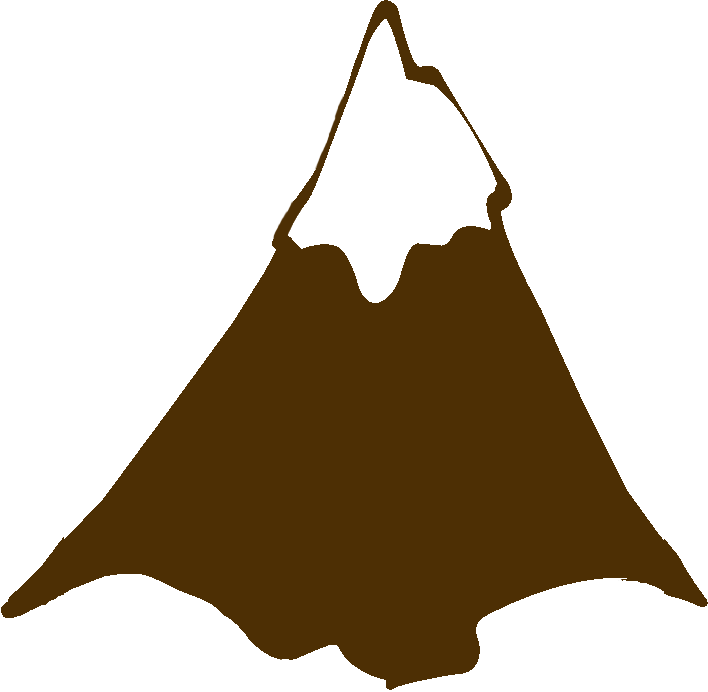
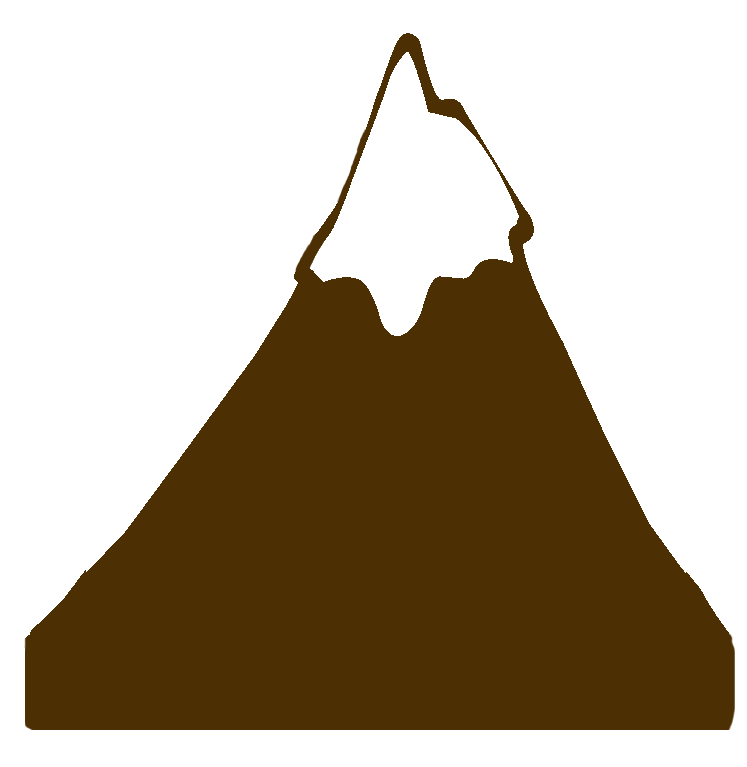
updating gradient

diff --git a/angular-src/src/app/dashboard-page/dashboard.component.html b/angular-src/src/app/dashboard-page/dashboard.component.html
@@ -153,15 +153,15 @@
   <svg class="scaling-svg" xmlns="http://www.w3.org/2000/svg" xmlns:xlink="http://www.w3.org/1999/xlink" viewBox="0 0 708 692">
   <title>Dashboard</title>
   <g id="Layer_1-2">
-    <image class="test-svg" width="708" height="692" xlink:href="../../assets/images/v2mountain1.png"/>
+    <image class="test-svg" width="700" height="760" xlink:href="../../assets/images/v2mountain1.png"/>
   </g>
-  <g id="Layer_2" transform="translate(267 18.5)" >
-    <image class="test-svg" width="238" height="285"xlink:href="../../assets/images/v2mountain2.png"/>
+  <g id="Layer_2" transform="translate(275 62)" >
+    <image class="test-svg" width="215" height="285"xlink:href="../../assets/images/v2mountain2.png"/>
   </g>
-  <g id="Layer_3" transform="translate(200 150)">
-    <image class="test-svg" width="519" height="585" xlink:href="../../assets/images/v2mountain3.png"/>
+  <g id="Layer_3" transform="translate(190 195)">
+    <image class="test-svg" width="500" height="555" xlink:href="../../assets/images/v2mountain3.png"/>
   </g>
-  <g id="menu" transform="translate(10, 10) scale(0.3)" (click)="openModalMenu()"> <title>Menu</title>
+  <g id="menu" transform="translate(20, 10) scale(0.3)" (click)="openModalMenu()"> <title>Menu</title>
     <path style="fill:#7f4b17" d="M536,203.2c0.4-1.8,1.3-10.6,0.5-12c-1.9-3.5-6.2-4.6-11.3-5c0.1-6.3-1-12.4,0.2-18.2v-3.6
           c0.4-1.7,1-8.1,0.2-9.6s-4.1-4.2-6.5-5s-2.3-0.2-3.1-0.7s-0.3-3.6-0.2-5.3c2.2-0.1,5.1-0.5,7-0.7c-0.3,0.2-0.4,0.2-1,0.2v0.2
           c2.3-0.1,6.4-4,7-5.8v-8c-1.5-7.2-2.1-12.6-8.2-15.1l-2.6-12.2c-0.4-1.6,0-3.6-0.7-4.8v-2.4l2.6-1.2c2.2-1.6,5-2.9,7.2-4.6h0.2
@@ -257,7 +257,7 @@
            M27,222.6v-0.2h-0.5L27,222.6z"/>
     <text font-family="TimesNewRoman" font-size="130" fill="white" transform="translate(25, 150)">Section 3</text>
   </g>
-  <g id="section4" transform="translate(280, 300) scale(0.2)" (click)="openModalFour()"> <title>Section 4</title>
+  <g id="section4" transform="translate(290, 330) scale(0.2)" (click)="openModalFour()"> <title>Section 4</title>
     <path style="fill:#7f4b17" d="M536,203.2c0.4-1.8,1.3-10.6,0.5-12c-1.9-3.5-6.2-4.6-11.3-5c0.1-6.3-1-12.4,0.2-18.2v-3.6
           c0.4-1.7,1-8.1,0.2-9.6s-4.1-4.2-6.5-5s-2.3-0.2-3.1-0.7s-0.3-3.6-0.2-5.3c2.2-0.1,5.1-0.5,7-0.7c-0.3,0.2-0.4,0.2-1,0.2v0.2
           c2.3-0.1,6.4-4,7-5.8v-8c-1.5-7.2-2.1-12.6-8.2-15.1l-2.6-12.2c-0.4-1.6,0-3.6-0.7-4.8v-2.4l2.6-1.2c2.2-1.6,5-2.9,7.2-4.6h0.2
@@ -281,7 +281,7 @@
            M27,222.6v-0.2h-0.5L27,222.6z"/>
     <text font-family="TimesNewRoman" font-size="130" fill="white" transform="translate(25, 150)">Section 4</text>
   </g>
-  <g id="section5" transform="translate(345, 160) scale(0.2)" (click)="openModalFive()"> <title>Section 5</title>
+  <g id="section5" transform="translate(360, 190) scale(0.2)" (click)="openModalFive()"> <title>Section 5</title>
     <path style="fill:#7f4b17" d="M536,203.2c0.4-1.8,1.3-10.6,0.5-12c-1.9-3.5-6.2-4.6-11.3-5c0.1-6.3-1-12.4,0.2-18.2v-3.6
           c0.4-1.7,1-8.1,0.2-9.6s-4.1-4.2-6.5-5s-2.3-0.2-3.1-0.7s-0.3-3.6-0.2-5.3c2.2-0.1,5.1-0.5,7-0.7c-0.3,0.2-0.4,0.2-1,0.2v0.2
           c2.3-0.1,6.4-4,7-5.8v-8c-1.5-7.2-2.1-12.6-8.2-15.1l-2.6-12.2c-0.4-1.6,0-3.6-0.7-4.8v-2.4l2.6-1.2c2.2-1.6,5-2.9,7.2-4.6h0.2

diff --git a/angular-src/src/app/dashboard-page/dashboard.component.css b/angular-src/src/app/dashboard-page/dashboard.component.css
@@ -20,9 +20,9 @@
 .scaling-svg {
   display: block;
   background-color: transparent;
-  width: 98vh;
-  max-width: 95%;
-  margin: auto
+  width: 102vh;
+  margin: auto;
+  bottom:0%;
 }
 
 .svg-container

diff --git a/angular-src/src/styles.css b/angular-src/src/styles.css
@@ -5,7 +5,8 @@ body{
   background-size: cover;
   background-repeat: no-repeat;
   font-family: 'Roboto', sans-serif;
+  height: 100%
 }
 html {
-  min-height: 100vh
+  height: 100%
 }
